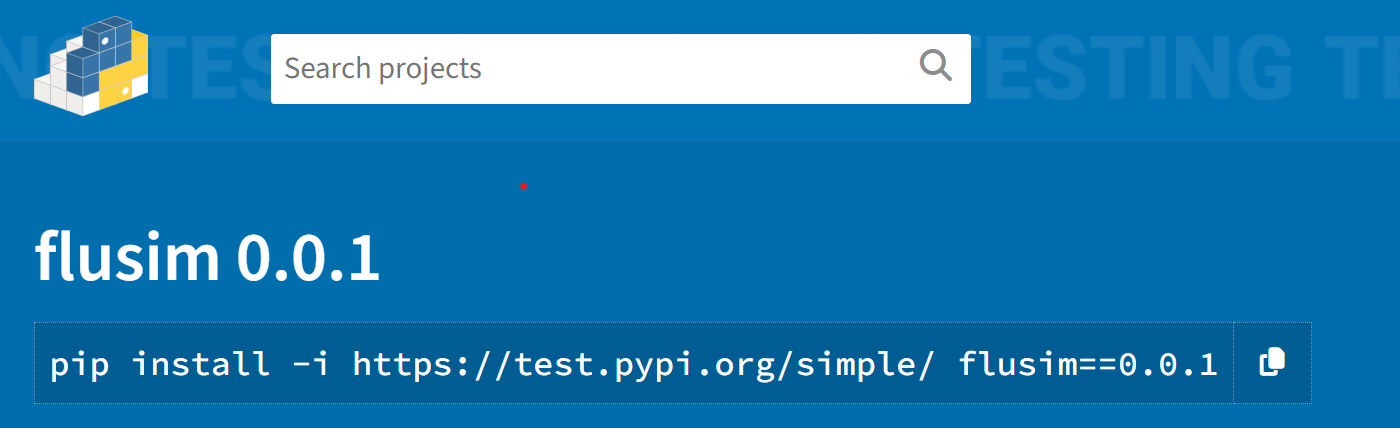
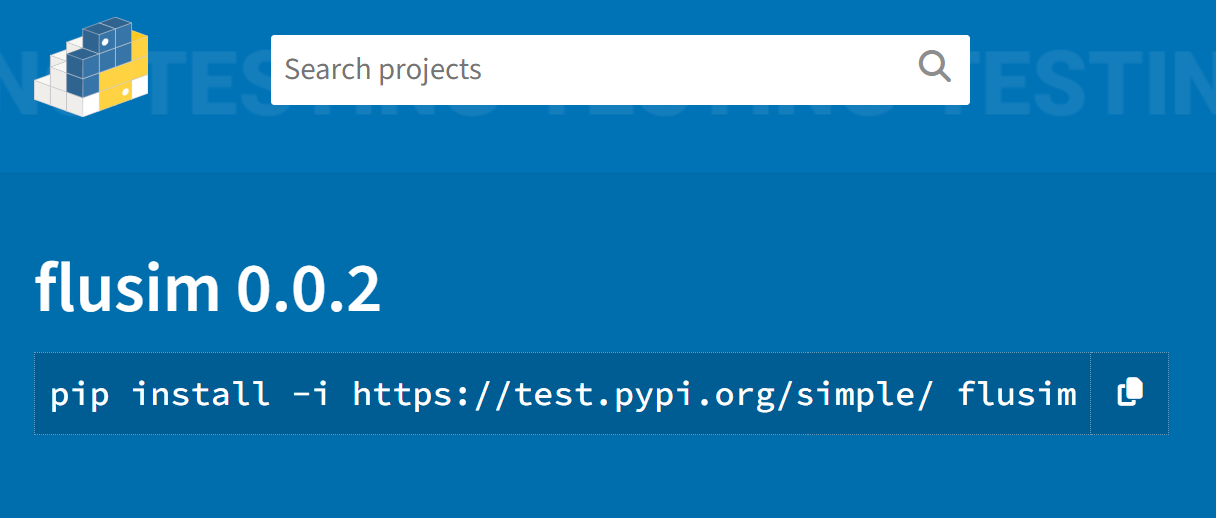
updated package version for projects posts, as well as fixing certificate link

Changed region(s): [[0.0, 0.486, 0.9688, 0.9416], [0.1875, 0.0607, 0.8125, 0.243], [0.0, 0.0304, 0.125, 0.2734]]

diff --git a/public/projects/projects-omsa-01/index.html b/public/projects/projects-omsa-01/index.html
@@ -1,1 +1,1 @@
-<!doctype html><html lang=en><head><meta charset=UTF-8><meta content="IE=edge" http-equiv=X-UA-Compatible><meta content="text/html; charset=UTF-8" http-equiv=content-type><meta content="width=device-width,initial-scale=1,user-scalable=no" name=viewport><meta content="index, follow" name=robots><title>Project: flusim</title><meta content="Project: flusim" name=title><meta content="Samuel Wang" name=author><meta content="A simulation package for a simple flu problem" name=description><meta content=website property=og:type><meta content=https://zebraalgebra-personal-page.netlify.app/projects/projects-omsa-01/ property=og:url><meta property=og:site_name><meta content="Project: flusim" property=og:title><meta content="A simulation package for a simple flu problem" property=og:description><meta content=https://zebraalgebra-personal-page.netlify.app/favicon.png property=og:image><link href=https://zebraalgebra-personal-page.netlify.app/projects/projects-omsa-01/ rel=canonical><link rel="shortcut icon" href=https://zebraalgebra-personal-page.netlify.app/favicon.png type=image/x-icon><link href=https://zebraalgebra-personal-page.netlify.app/css/style.css rel=stylesheet><script src=https://zebraalgebra-personal-page.netlify.app/js/script.js></script><body><div class=wrapper><header><nav class=navBar><a href=https://zebraalgebra-personal-page.netlify.app>/home/</a><a href=https://zebraalgebra-personal-page.netlify.app/about>/about/</a><a href=https://zebraalgebra-personal-page.netlify.app/blog>/blog/</a><a href=https://zebraalgebra-personal-page.netlify.app/contact>/contact/</a><a href=https://zebraalgebra-personal-page.netlify.app/projects>/projects/</a><div class=themeSwitch><button class="themeButton light" onclick="setTheme('light')" title="Light mode"><svg class="icons icons__background"><use href=https://zebraalgebra-personal-page.netlify.app/icons.svg#lightMode></use></svg></button><button class="themeButton dark" onclick="setTheme('dark')" title="Dark mode"><svg class="icons icons__background"><use href=https://zebraalgebra-personal-page.netlify.app/icons.svg#darkMode></use></svg></button></div></nav></header><main><h1>Project: flusim</h1><p><img alt src=../flusim.png><blockquote><p>Link to the <a href=https://github.com/ZebraAlgebra/flusim rel=noopener target=_blank>GitHub Repo</a></blockquote><blockquote><p>Link to the <a href=https://test.pypi.org/project/flusim/0.0.1/ rel=noopener target=_blank>published package</a></blockquote><blockquote><p>Link to a <a href=https://htmlpreview.github.io/?https://github.com/ZebraAlgebra/flusim/blob/main/notebooks/package_demo.html rel=noopener target=_blank>demo Jupyter notebook</a></blockquote><h2 id=overview>Overview</h2><p>This is a school project in the course <a href=https://omscs.gatech.edu/isye-6644-simulation-and-modeling-engineering-and-science rel=noopener target=_blank>ISYE6644 Simulation</a> that I worked on my own.<p>The problem is to simulate, calculate some statistics of a small-scale, simple flu-spread problem.<h2 id=problem-statement>Problem Statement</h2><p>The <strong>flu-spread problem</strong> has the following very simple assumptions:<ol><li>There are <code>n</code> people in a closed system, with no people being sick before day <code>0</code>, and <code>1</code> people sick in day <code>1</code>.<li>Every people once sick, will recover in exactly <code>l</code> days.<li>Each day, every healthy person has a probability <code>p</code> of getting infected by an ill person, and these events are independent.</ol><p>The problem is to determine the expectation and variance of the number of ill people each day, as well as the same statistics for the date of flu end.<h2 id=skills-obtained>Skills Obtained</h2><ol><li>Python: <ul><li>OOP stuffs (Pythonic inheritance, <code>dataclass</code> syntaxes)<li>Package development (package structures, typing, validation, package publishing ecosystem)</ul><li>Math: <ul><li>Basic Markov chain analysis (state space estimates, analysis on the statistics of time till absorption)<li>Output analysis (confidence intervals)</ul></ol><h2 id=things-i-did>Things I did</h2><ol><li>On the mathematical side, I recognized that these statistics can be calculated via an associated Markov chain. <ul><li>In this sense, these statistics can be numerically solved via matrix equations. <ul><li>For the statistics of each day, the number is a linear or quadratic function on the entries of a power of the transition matrix (of the associated Markov chain).<li>For flu-end dates, the expectation and variance satisfies a recurrence relation, derived via a standard first-step analysis.</ul><li>The problem is that since the assocaited Markov chain has a large state space (almost of size <code>n ** d</code>), other simulation methods are needed.</ul><li>On the simulation side, I wrote codes that can simulate the associated Markov chain, and used it to find the approximate statistics, confidence intervals. <ul><li>To simulate and see the status of every person in the system at each day, a more resource-heavy method must be used, so I implemented this functionality as a single period simulation.<li>If the number of people being sick each day is our only focus, a faster method can be used, so I implemented this functionality as a multiple period simulation.</ul><li>On the visualization side, I wrote two simple visualization widget using <a href=https://bokeh.org/ rel=noopener target=_blank>Bokeh</a> to visualize simulation results.<li>Combining all these functionalities, I wrote a Python package and published it on test PyPI.</ol><p class=tagsData></main><footer><hr><div class=footContainer><div class=footLeft><p>Powered by <a rel="noopener noreferrer" href=https://www.getzola.org target=_blank>Zola</a> with <a rel="noopener noreferrer" href=https://github.com/Speyll/anemone target=_blank>anemone</a> theme & <a rel="noopener noreferrer" href=https://github.com/Speyll/veqev target=_blank>veqev</a> colors.<br></div></div></footer></div>
+<!doctype html><html lang=en><head><meta charset=UTF-8><meta content="IE=edge" http-equiv=X-UA-Compatible><meta content="text/html; charset=UTF-8" http-equiv=content-type><meta content="width=device-width,initial-scale=1,user-scalable=no" name=viewport><meta content="index, follow" name=robots><title>Project: flusim</title><meta content="Project: flusim" name=title><meta content="Samuel Wang" name=author><meta content="A simulation package for a simple flu problem" name=description><meta content=website property=og:type><meta content=https://zebraalgebra-personal-page.netlify.app/projects/projects-omsa-01/ property=og:url><meta property=og:site_name><meta content="Project: flusim" property=og:title><meta content="A simulation package for a simple flu problem" property=og:description><meta content=https://zebraalgebra-personal-page.netlify.app/favicon.png property=og:image><link href=https://zebraalgebra-personal-page.netlify.app/projects/projects-omsa-01/ rel=canonical><link rel="shortcut icon" href=https://zebraalgebra-personal-page.netlify.app/favicon.png type=image/x-icon><link href=https://zebraalgebra-personal-page.netlify.app/css/style.css rel=stylesheet><script src=https://zebraalgebra-personal-page.netlify.app/js/script.js></script><body><div class=wrapper><header><nav class=navBar><a href=https://zebraalgebra-personal-page.netlify.app>/home/</a><a href=https://zebraalgebra-personal-page.netlify.app/about>/about/</a><a href=https://zebraalgebra-personal-page.netlify.app/blog>/blog/</a><a href=https://zebraalgebra-personal-page.netlify.app/contact>/contact/</a><a href=https://zebraalgebra-personal-page.netlify.app/projects>/projects/</a><div class=themeSwitch><button class="themeButton light" onclick="setTheme('light')" title="Light mode"><svg class="icons icons__background"><use href=https://zebraalgebra-personal-page.netlify.app/icons.svg#lightMode></use></svg></button><button class="themeButton dark" onclick="setTheme('dark')" title="Dark mode"><svg class="icons icons__background"><use href=https://zebraalgebra-personal-page.netlify.app/icons.svg#darkMode></use></svg></button></div></nav></header><main><h1>Project: flusim</h1><p><img alt src=../flusim.png><blockquote><p>Link to the <a href=https://github.com/ZebraAlgebra/flusim rel=noopener target=_blank>GitHub Repo</a></blockquote><blockquote><p>Link to the <a href=https://test.pypi.org/project/flusim/ rel=noopener target=_blank>published package</a></blockquote><blockquote><p>Link to a <a href=https://htmlpreview.github.io/?https://github.com/ZebraAlgebra/flusim/blob/main/notebooks/package_demo.html rel=noopener target=_blank>demo Jupyter notebook</a></blockquote><h2 id=overview>Overview</h2><p>This is a school project in the course <a href=https://omscs.gatech.edu/isye-6644-simulation-and-modeling-engineering-and-science rel=noopener target=_blank>ISYE6644 Simulation</a> that I worked on my own.<p>The problem is to simulate, calculate some statistics of a small-scale, simple flu-spread problem.<h2 id=problem-statement>Problem Statement</h2><p>The <strong>flu-spread problem</strong> has the following very simple assumptions:<ol><li>There are <code>n</code> people in a closed system, with no people being sick before day <code>0</code>, and <code>1</code> people sick in day <code>1</code>.<li>Every people once sick, will recover in exactly <code>l</code> days.<li>Each day, every healthy person has a probability <code>p</code> of getting infected by an ill person, and these events are independent.</ol><p>The problem is to determine the expectation and variance of the number of ill people each day, as well as the same statistics for the date of flu end.<h2 id=skills-obtained>Skills Obtained</h2><ol><li>Python: <ul><li>OOP stuffs (Pythonic inheritance, <code>dataclass</code> syntaxes)<li>Package development (package structures, typing, validation, package publishing ecosystem)</ul><li>Math: <ul><li>Basic Markov chain analysis (state space estimates, analysis on the statistics of time till absorption)<li>Output analysis (confidence intervals)</ul></ol><h2 id=things-i-did>Things I did</h2><ol><li>On the mathematical side, I recognized that these statistics can be calculated via an associated Markov chain. <ul><li>In this sense, these statistics can be numerically solved via matrix equations. <ul><li>For the statistics of each day, the number is a linear or quadratic function on the entries of a power of the transition matrix (of the associated Markov chain).<li>For flu-end dates, the expectation and variance satisfies a recurrence relation, derived via a standard first-step analysis.</ul><li>The problem is that since the assocaited Markov chain has a large state space (almost of size <code>n ** d</code>), other simulation methods are needed.</ul><li>On the simulation side, I wrote codes that can simulate the associated Markov chain, and used it to find the approximate statistics, confidence intervals. <ul><li>To simulate and see the status of every person in the system at each day, a more resource-heavy method must be used, so I implemented this functionality as a single period simulation.<li>If the number of people being sick each day is our only focus, a faster method can be used, so I implemented this functionality as a multiple period simulation.</ul><li>On the visualization side, I wrote two simple visualization widget using <a href=https://bokeh.org/ rel=noopener target=_blank>Bokeh</a> to visualize simulation results.<li>Combining all these functionalities, I wrote a Python package and published it on test PyPI.</ol><p class=tagsData></main><footer><hr><div class=footContainer><div class=footLeft><p>Powered by <a rel="noopener noreferrer" href=https://www.getzola.org target=_blank>Zola</a> with <a rel="noopener noreferrer" href=https://github.com/Speyll/anemone target=_blank>anemone</a> theme & <a rel="noopener noreferrer" href=https://github.com/Speyll/veqev target=_blank>veqev</a> colors.<br></div></div></footer></div>

diff --git a/public/blog/03-003/index.html b/public/blog/03-003/index.html
@@ -1,4 +1,4 @@
-<!doctype html><html lang=en><head><meta charset=UTF-8><meta content="IE=edge" http-equiv=X-UA-Compatible><meta content="text/html; charset=UTF-8" http-equiv=content-type><meta content="width=device-width,initial-scale=1,user-scalable=no" name=viewport><meta content="index, follow" name=robots><title>Packaging and Publishing Python Projects <🐍 Python></title><meta content="Packaging and Publishing Python Projects <🐍 Python>" name=title><meta content="Samuel Wang" name=author><meta content="Post on Python's Packaging" name=description><meta content=website property=og:type><meta content=https://zebraalgebra-personal-page.netlify.app/blog/03-003/ property=og:url><meta property=og:site_name><meta content="Packaging and Publishing Python Projects <🐍 Python>" property=og:title><meta content="Post on Python's Packaging" property=og:description><meta content=https://zebraalgebra-personal-page.netlify.app/favicon.png property=og:image><link href=https://zebraalgebra-personal-page.netlify.app/blog/03-003/ rel=canonical><link rel="shortcut icon" href=https://zebraalgebra-personal-page.netlify.app/favicon.png type=image/x-icon><link href=https://zebraalgebra-personal-page.netlify.app/css/style.css rel=stylesheet><script src=https://zebraalgebra-personal-page.netlify.app/js/script.js></script><body><div class=wrapper><header><nav class=navBar><a href=https://zebraalgebra-personal-page.netlify.app>/home/</a><a href=https://zebraalgebra-personal-page.netlify.app/about>/about/</a><a href=https://zebraalgebra-personal-page.netlify.app/blog>/blog/</a><a href=https://zebraalgebra-personal-page.netlify.app/contact>/contact/</a><a href=https://zebraalgebra-personal-page.netlify.app/projects>/projects/</a><div class=themeSwitch><button class="themeButton light" onclick="setTheme('light')" title="Light mode"><svg class="icons icons__background"><use href=https://zebraalgebra-personal-page.netlify.app/icons.svg#lightMode></use></svg></button><button class="themeButton dark" onclick="setTheme('dark')" title="Dark mode"><svg class="icons icons__background"><use href=https://zebraalgebra-personal-page.netlify.app/icons.svg#darkMode></use></svg></button></div></nav></header><main><h1>Packaging and Publishing Python Projects <🐍 Python></h1><p>In this post, I will be writing about the steps of publishing a package, as well as what resources helped me the most.<blockquote><p>Disclaimer: Since my package is a relatively simple and small one, this tutorial does not present the best practices on the process of packaging, publishing a project, but rather, a basic way of doing so.</blockquote><h2 id=background>Background</h2><p>I recently worked on a school project in the course <a href=https://omscs.gatech.edu/isye-6644-simulation-and-modeling-engineering-and-science rel=noopener target=_blank>ISYE6644 Simulation</a> and wrote some Python code for it.<p>Throughout the process I was thinking: well, maybe if I can build, publish this as a Python package, and that people can run <code>pip install</code> to install it, wouldn’t that be pretty fun?<p>After going through some tutorials and going through some documentations (which is not an entirely trivial process), I finally published the <a href=https://test.pypi.org/project/flusim/0.0.1/ rel=noopener target=_blank>package</a> on <a href=https://test.pypi.org/ rel=noopener target=_blank>testpypi</a>.<p><img alt src=../flusim.png><p>The amazing tutorial that helped me the most is the <a href="https://www.youtube.com/watch?v=5KEObONUkik&t=936s&pp=ygUZYXJqYW5jb2RlcyBweXRob24gcGFja2FnZQ%3D%3D" rel=noopener target=_blank>Youtube video by ArjanCodes</a>, and I highly recommend checking it out.<h2 id=overview-of-the-process>Overview of the Process</h2><p>The process of building a project is roughly as follows:<ol><li>You need to have the source codes, and a <code>setup.py</code> file ready.<li>Run <code>setuptools</code> on <code>setup.py</code> to build a distribution file.<li>Check the generated distribution files using <code>twine</code>.<li>Upload the package to <code>pypi</code> or <code>testpypi</code> - also using <code>twine</code>.</ol><p>Pretty straightforward, isn’t it?<h2 id=the-syntaxes>The Syntaxes</h2><p>You can check out my project directory structure at my <a href=https://github.com/ZebraAlgebra/flusim rel=noopener target=_blank>Github repo</a>.<blockquote><p>In order for these commands in the following sections to work, you will first need to <code>pip install</code> the packages <code>twine, wheel, setuptools</code>.</blockquote><h3 id=setup-and-build>Setup and Build</h3><p>My <code>setup.py</code> file is configured as follows:<pre class=language-python data-lang=python style=background:#282828;color:#fdf4c1aa><code class=language-python data-lang=python><span style=color:#fa5c4b>from </span><span>setuptools </span><span style=color:#fa5c4b>import </span><span>setup, find_packages
+<!doctype html><html lang=en><head><meta charset=UTF-8><meta content="IE=edge" http-equiv=X-UA-Compatible><meta content="text/html; charset=UTF-8" http-equiv=content-type><meta content="width=device-width,initial-scale=1,user-scalable=no" name=viewport><meta content="index, follow" name=robots><title>Packaging and Publishing Python Projects <🐍 Python></title><meta content="Packaging and Publishing Python Projects <🐍 Python>" name=title><meta content="Samuel Wang" name=author><meta content="Post on Python's Packaging" name=description><meta content=website property=og:type><meta content=https://zebraalgebra-personal-page.netlify.app/blog/03-003/ property=og:url><meta property=og:site_name><meta content="Packaging and Publishing Python Projects <🐍 Python>" property=og:title><meta content="Post on Python's Packaging" property=og:description><meta content=https://zebraalgebra-personal-page.netlify.app/favicon.png property=og:image><link href=https://zebraalgebra-personal-page.netlify.app/blog/03-003/ rel=canonical><link rel="shortcut icon" href=https://zebraalgebra-personal-page.netlify.app/favicon.png type=image/x-icon><link href=https://zebraalgebra-personal-page.netlify.app/css/style.css rel=stylesheet><script src=https://zebraalgebra-personal-page.netlify.app/js/script.js></script><body><div class=wrapper><header><nav class=navBar><a href=https://zebraalgebra-personal-page.netlify.app>/home/</a><a href=https://zebraalgebra-personal-page.netlify.app/about>/about/</a><a href=https://zebraalgebra-personal-page.netlify.app/blog>/blog/</a><a href=https://zebraalgebra-personal-page.netlify.app/contact>/contact/</a><a href=https://zebraalgebra-personal-page.netlify.app/projects>/projects/</a><div class=themeSwitch><button class="themeButton light" onclick="setTheme('light')" title="Light mode"><svg class="icons icons__background"><use href=https://zebraalgebra-personal-page.netlify.app/icons.svg#lightMode></use></svg></button><button class="themeButton dark" onclick="setTheme('dark')" title="Dark mode"><svg class="icons icons__background"><use href=https://zebraalgebra-personal-page.netlify.app/icons.svg#darkMode></use></svg></button></div></nav></header><main><h1>Packaging and Publishing Python Projects <🐍 Python></h1><p>In this post, I will be writing about the steps of publishing a package, as well as what resources helped me the most.<blockquote><p>Disclaimer: Since my package is a relatively simple and small one, this tutorial does not present the best practices on the process of packaging, publishing a project, but rather, a basic way of doing so.</blockquote><h2 id=background>Background</h2><p>I recently worked on a school project in the course <a href=https://omscs.gatech.edu/isye-6644-simulation-and-modeling-engineering-and-science rel=noopener target=_blank>ISYE6644 Simulation</a> and wrote some Python code for it.<p>Throughout the process I was thinking: well, maybe if I can build, publish this as a Python package, and that people can run <code>pip install</code> to install it, wouldn’t that be pretty fun?<p>After going through some tutorials and going through some documentations (which is not an entirely trivial process), I finally published the <a href=https://test.pypi.org/project/flusim/ rel=noopener target=_blank>package</a> on <a href=https://test.pypi.org/ rel=noopener target=_blank>testpypi</a>.<p><img alt src=../flusim.png><p>The amazing tutorial that helped me the most is the <a href="https://www.youtube.com/watch?v=5KEObONUkik&t=936s&pp=ygUZYXJqYW5jb2RlcyBweXRob24gcGFja2FnZQ%3D%3D" rel=noopener target=_blank>Youtube video by ArjanCodes</a>, and I highly recommend checking it out.<h2 id=overview-of-the-process>Overview of the Process</h2><p>The process of building a project is roughly as follows:<ol><li>You need to have the source codes, and a <code>setup.py</code> file ready.<li>Run <code>setuptools</code> on <code>setup.py</code> to build a distribution file.<li>Check the generated distribution files using <code>twine</code>.<li>Upload the package to <code>pypi</code> or <code>testpypi</code> - also using <code>twine</code>.</ol><p>Pretty straightforward, isn’t it?<h2 id=the-syntaxes>The Syntaxes</h2><p>You can check out my project directory structure at my <a href=https://github.com/ZebraAlgebra/flusim rel=noopener target=_blank>Github repo</a>.<blockquote><p>In order for these commands in the following sections to work, you will first need to <code>pip install</code> the packages <code>twine, wheel, setuptools</code>.</blockquote><h3 id=setup-and-build>Setup and Build</h3><p>My <code>setup.py</code> file is configured as follows:<pre class=language-python data-lang=python style=background:#282828;color:#fdf4c1aa><code class=language-python data-lang=python><span style=color:#fa5c4b>from </span><span>setuptools </span><span style=color:#fa5c4b>import </span><span>setup, find_packages
 </span><span>
 </span><span style=color:#fa5c4b>with </span><span style=color:#fabd2f>open</span><span style=color:#fdf4c1>(</span><span style=color:#b8bb26>"app/README.md"</span><span style=color:#fdf4c1>, </span><span style=color:#b8bb26>"r"</span><span style=color:#fdf4c1>) </span><span style=color:#fa5c4b>as </span><span>f:
 </span><span>    long_description </span><span style=color:#fe8019>= </span><span style=color:#fdf4c1>f.read()

diff --git a/public/about/1/index.html b/public/about/1/index.html
@@ -1,1 +1,1 @@
-<!doctype html><html lang=en><head><meta charset=UTF-8><meta content="IE=edge" http-equiv=X-UA-Compatible><meta content="text/html; charset=UTF-8" http-equiv=content-type><meta content="width=device-width,initial-scale=1,user-scalable=no" name=viewport><meta content="index, follow" name=robots><title>CV</title><meta content=CV name=title><meta content="Samuel Wang" name=author><meta content=CV name=description><meta content=website property=og:type><meta content=https://zebraalgebra-personal-page.netlify.app/about/1/ property=og:url><meta property=og:site_name><meta content=CV property=og:title><meta content=CV property=og:description><meta content=https://zebraalgebra-personal-page.netlify.app/favicon.png property=og:image><link href=https://zebraalgebra-personal-page.netlify.app/about/1/ rel=canonical><link rel="shortcut icon" href=https://zebraalgebra-personal-page.netlify.app/favicon.png type=image/x-icon><link href=https://zebraalgebra-personal-page.netlify.app/css/style.css rel=stylesheet><script src=https://zebraalgebra-personal-page.netlify.app/js/script.js></script><body><div class=wrapper><header><nav class=navBar><a href=https://zebraalgebra-personal-page.netlify.app>/home/</a><a href=https://zebraalgebra-personal-page.netlify.app/about>/about/</a><a href=https://zebraalgebra-personal-page.netlify.app/blog>/blog/</a><a href=https://zebraalgebra-personal-page.netlify.app/contact>/contact/</a><a href=https://zebraalgebra-personal-page.netlify.app/projects>/projects/</a><div class=themeSwitch><button class="themeButton light" onclick="setTheme('light')" title="Light mode"><svg class="icons icons__background"><use href=https://zebraalgebra-personal-page.netlify.app/icons.svg#lightMode></use></svg></button><button class="themeButton dark" onclick="setTheme('dark')" title="Dark mode"><svg class="icons icons__background"><use href=https://zebraalgebra-personal-page.netlify.app/icons.svg#darkMode></use></svg></button></div></nav></header><main><h1>CV</h1><h2 id=education>Education</h2><h3 id=school-degree-programs>🏫 Degree Programs</h3><ul><li><p><code>MS in Analytics</code> <strong>2023 Aug. - 2025. Feb (exp.)</strong> @<em>Georgia Inst. of Tech.</em></p><li><p><code>MS in Math</code> <strong>2022 Feb. - 2023 Jun.</strong> @<em>Natn’l Taiwan Univ.</em></p> <blockquote><p>Thesis: <em>A Motivic Blowup Formula of Moduli Spaces of Rank 2 Sheaves on a Smooth Projective Algebraic Surface</em>.</blockquote> <blockquote><p>Link to my <a href=https://doi.org/10.6342/NTU202301040 rel=noopener target=_blank>thesis</a>.</blockquote> <blockquote><p>Advisor: <a href=http://www.math.ntu.edu.tw/entity_people/entity_people/21516 rel=noopener target=_blank>Prof. Wu-Yen Chuang</a>.</blockquote><li><p><code>BS in Math</code> <strong>2016 Sep. - 2020 Jun.</strong> @<em>Natn’l Taiwan Univ.</em></p></ul><h3 id=globe-with-meridians-online-courses>🌐 Online Courses</h3><ul><li><code>CS50's Intro. to AI with Python</code> <strong>2023 Spring</strong> @<em>Harvard Online Course</em>. <blockquote><p>Link to my <a href="https://certificates.cs50.io/da3cca83-2a71-4452-8aa2-c8ca7df9f11c.png?size=letter" rel=noopener target=_blank>certificate</a>.</blockquote><li><code>Algorithm Specialization</code> <strong>2023 Winter</strong> @<em>Stanford Online</em>. <blockquote><p>Link to my <a href=https://www.coursera.org/account/accomplishments/specialization/certificate/BHQVPXG5K35U rel=noopener target=_blank>certificate</a>.</blockquote></ul><p class=tagsData></main><footer><hr><div class=footContainer><div class=footLeft><p>Powered by <a rel="noopener noreferrer" href=https://www.getzola.org target=_blank>Zola</a> with <a rel="noopener noreferrer" href=https://github.com/Speyll/anemone target=_blank>anemone</a> theme & <a rel="noopener noreferrer" href=https://github.com/Speyll/veqev target=_blank>veqev</a> colors.<br></div></div></footer></div>
+<!doctype html><html lang=en><head><meta charset=UTF-8><meta content="IE=edge" http-equiv=X-UA-Compatible><meta content="text/html; charset=UTF-8" http-equiv=content-type><meta content="width=device-width,initial-scale=1,user-scalable=no" name=viewport><meta content="index, follow" name=robots><title>CV</title><meta content=CV name=title><meta content="Samuel Wang" name=author><meta content=CV name=description><meta content=website property=og:type><meta content=https://zebraalgebra-personal-page.netlify.app/about/1/ property=og:url><meta property=og:site_name><meta content=CV property=og:title><meta content=CV property=og:description><meta content=https://zebraalgebra-personal-page.netlify.app/favicon.png property=og:image><link href=https://zebraalgebra-personal-page.netlify.app/about/1/ rel=canonical><link rel="shortcut icon" href=https://zebraalgebra-personal-page.netlify.app/favicon.png type=image/x-icon><link href=https://zebraalgebra-personal-page.netlify.app/css/style.css rel=stylesheet><script src=https://zebraalgebra-personal-page.netlify.app/js/script.js></script><body><div class=wrapper><header><nav class=navBar><a href=https://zebraalgebra-personal-page.netlify.app>/home/</a><a href=https://zebraalgebra-personal-page.netlify.app/about>/about/</a><a href=https://zebraalgebra-personal-page.netlify.app/blog>/blog/</a><a href=https://zebraalgebra-personal-page.netlify.app/contact>/contact/</a><a href=https://zebraalgebra-personal-page.netlify.app/projects>/projects/</a><div class=themeSwitch><button class="themeButton light" onclick="setTheme('light')" title="Light mode"><svg class="icons icons__background"><use href=https://zebraalgebra-personal-page.netlify.app/icons.svg#lightMode></use></svg></button><button class="themeButton dark" onclick="setTheme('dark')" title="Dark mode"><svg class="icons icons__background"><use href=https://zebraalgebra-personal-page.netlify.app/icons.svg#darkMode></use></svg></button></div></nav></header><main><h1>CV</h1><h2 id=education>Education</h2><h3 id=school-degree-programs>🏫 Degree Programs</h3><ul><li><p><code>MS in Analytics</code> <strong>2023 Aug. - 2025. Feb (exp.)</strong> @<em>Georgia Inst. of Tech.</em></p><li><p><code>MS in Math</code> <strong>2022 Feb. - 2023 Jun.</strong> @<em>Natn’l Taiwan Univ.</em></p> <blockquote><p>Thesis: <em>A Motivic Blowup Formula of Moduli Spaces of Rank 2 Sheaves on a Smooth Projective Algebraic Surface</em>.</blockquote> <blockquote><p>Link to my <a href=https://doi.org/10.6342/NTU202301040 rel=noopener target=_blank>thesis</a>.</blockquote> <blockquote><p>Advisor: <a href=http://www.math.ntu.edu.tw/entity_people/entity_people/21516 rel=noopener target=_blank>Prof. Wu-Yen Chuang</a>.</blockquote><li><p><code>BS in Math</code> <strong>2016 Sep. - 2020 Jun.</strong> @<em>Natn’l Taiwan Univ.</em></p></ul><h3 id=globe-with-meridians-online-courses>🌐 Online Courses</h3><ul><li><code>CS50's Intro. to AI with Python</code> <strong>2023 Spring</strong> @<em>Harvard Online Course</em>. <blockquote><p>Link to my <a href="https://certificates.cs50.io/da3cca83-2a71-4452-8aa2-c8ca7df9f11c.png?size=letter" rel=noopener target=_blank>certificate</a>.</blockquote><li><code>Algorithm Specialization</code> <strong>2023 Winter</strong> @<em>Stanford Online</em>. <blockquote><p>Link to my <a href=https://www.coursera.org/account/accomplishments/specialization/BHQVPXG5K35U rel=noopener target=_blank>certificate</a>.</blockquote></ul><p class=tagsData></main><footer><hr><div class=footContainer><div class=footLeft><p>Powered by <a rel="noopener noreferrer" href=https://www.getzola.org target=_blank>Zola</a> with <a rel="noopener noreferrer" href=https://github.com/Speyll/anemone target=_blank>anemone</a> theme & <a rel="noopener noreferrer" href=https://github.com/Speyll/veqev target=_blank>veqev</a> colors.<br></div></div></footer></div>

diff --git a/public/index.html b/public/index.html
@@ -1,1 +1,1 @@
-<!doctype html><html lang=en><head><meta charset=UTF-8><meta content="IE=edge" http-equiv=X-UA-Compatible><meta content="text/html; charset=UTF-8" http-equiv=content-type><meta content="width=device-width,initial-scale=1,user-scalable=no" name=viewport><meta content="index, follow" name=robots><title>Landing Page</title><meta content="Landing Page" name=title><meta content="Samuel Wang" name=author><meta content="Landing Page" name=description><meta content=website property=og:type><meta content=https://zebraalgebra-personal-page.netlify.app/ property=og:url><meta property=og:site_name><meta content="Landing Page" property=og:title><meta content="Landing Page" property=og:description><meta content=https://zebraalgebra-personal-page.netlify.app/favicon.png property=og:image><link href=https://zebraalgebra-personal-page.netlify.app/ rel=canonical><link rel="shortcut icon" href=https://zebraalgebra-personal-page.netlify.app/favicon.png type=image/x-icon><link href=https://zebraalgebra-personal-page.netlify.app/css/style.css rel=stylesheet><script src=https://zebraalgebra-personal-page.netlify.app/js/script.js></script><body><div class=wrapper><header><nav class=navBar><a href=https://zebraalgebra-personal-page.netlify.app>/home/</a><a href=https://zebraalgebra-personal-page.netlify.app/about>/about/</a><a href=https://zebraalgebra-personal-page.netlify.app/blog>/blog/</a><a href=https://zebraalgebra-personal-page.netlify.app/contact>/contact/</a><a href=https://zebraalgebra-personal-page.netlify.app/projects>/projects/</a><div class=themeSwitch><button class="themeButton light" onclick="setTheme('light')" title="Light mode"><svg class="icons icons__background"><use href=https://zebraalgebra-personal-page.netlify.app/icons.svg#lightMode></use></svg></button><button class="themeButton dark" onclick="setTheme('dark')" title="Dark mode"><svg class="icons icons__background"><use href=https://zebraalgebra-personal-page.netlify.app/icons.svg#darkMode></use></svg></button></div></nav></header><main><h1 id=greetings-right-facing-fist-left-facing-fist>Greetings! 🤜🤛</h1><p>My name is Samuel Wang, currently a student in <a href=https://pe.gatech.edu/degrees/analytics rel=noopener target=_blank>Georgia Tech’s OMSA</a> program, and an aspiring data analyst.<p>Feel free to look around my page and <a href=https://zebraalgebra-personal-page.netlify.app/./contact/>reach out to me</a>.<p><img alt src=https://zebraalgebra-personal-page.netlify.app/./profile_pic.jpg><p>(Photo taken at <em>Wang-You-Gu, Yilan, Taiwan</em>)<ul class=titleList></ul></main><footer><hr><div class=footContainer><div class=footLeft><p>Powered by <a rel="noopener noreferrer" href=https://www.getzola.org target=_blank>Zola</a> with <a rel="noopener noreferrer" href=https://github.com/Speyll/anemone target=_blank>anemone</a> theme & <a rel="noopener noreferrer" href=https://github.com/Speyll/veqev target=_blank>veqev</a> colors.<br></div></div></footer></div>
+<!doctype html><html lang=en><head><meta charset=UTF-8><meta content="IE=edge" http-equiv=X-UA-Compatible><meta content="text/html; charset=UTF-8" http-equiv=content-type><meta content="width=device-width,initial-scale=1,user-scalable=no" name=viewport><meta content="index, follow" name=robots><title>Landing Page</title><meta content="Landing Page" name=title><meta content="Samuel Wang" name=author><meta content="Landing Page" name=description><meta content=website property=og:type><meta content=https://zebraalgebra-personal-page.netlify.app/ property=og:url><meta property=og:site_name><meta content="Landing Page" property=og:title><meta content="Landing Page" property=og:description><meta content=https://zebraalgebra-personal-page.netlify.app/favicon.png property=og:image><link href=https://zebraalgebra-personal-page.netlify.app/ rel=canonical><link rel="shortcut icon" href=https://zebraalgebra-personal-page.netlify.app/favicon.png type=image/x-icon><link href=https://zebraalgebra-personal-page.netlify.app/css/style.css rel=stylesheet><script src=https://zebraalgebra-personal-page.netlify.app/js/script.js></script><body><div class=wrapper><header><nav class=navBar><a href=https://zebraalgebra-personal-page.netlify.app>/home/</a><a href=https://zebraalgebra-personal-page.netlify.app/about>/about/</a><a href=https://zebraalgebra-personal-page.netlify.app/blog>/blog/</a><a href=https://zebraalgebra-personal-page.netlify.app/contact>/contact/</a><a href=https://zebraalgebra-personal-page.netlify.app/projects>/projects/</a><div class=themeSwitch><button class="themeButton light" onclick="setTheme('light')" title="Light mode"><svg class="icons icons__background"><use href=https://zebraalgebra-personal-page.netlify.app/icons.svg#lightMode></use></svg></button><button class="themeButton dark" onclick="setTheme('dark')" title="Dark mode"><svg class="icons icons__background"><use href=https://zebraalgebra-personal-page.netlify.app/icons.svg#darkMode></use></svg></button></div></nav></header><main><h1 id=greetings-right-facing-fist-left-facing-fist>Greetings! 🤜🤛</h1><p>My name is Samuel Wang, currently a student in <a href=https://pe.gatech.edu/degrees/analytics rel=noopener target=_blank>Georgia Tech’s OMSA</a> program, and an aspiring data analyst.<p>Feel free to look around my page and <a href=https://zebraalgebra-personal-page.netlify.app/./contact/>reach out to me</a>.<p><img alt src=https://zebraalgebra-personal-page.netlify.app/./profile_pic.jpg><p>(Photo taken at <em>Wang-You-Gu, Yilan, Taiwan</em>)<p><code>Website Last Updated: 2023/12/04 17:00 EST</code><ul class=titleList></ul></main><footer><hr><div class=footContainer><div class=footLeft><p>Powered by <a rel="noopener noreferrer" href=https://www.getzola.org target=_blank>Zola</a> with <a rel="noopener noreferrer" href=https://github.com/Speyll/anemone target=_blank>anemone</a> theme & <a rel="noopener noreferrer" href=https://github.com/Speyll/veqev target=_blank>veqev</a> colors.<br></div></div></footer></div>

diff --git a/content/blog/03-003-packaging.md b/content/blog/03-003-packaging.md
@@ -16,7 +16,7 @@ I recently worked on a school project in the course [ISYE6644 Simulation](https:
 
 Throughout the process I was thinking: well, maybe if I can build, publish this as a Python package, and that people can run `pip install` to install it, wouldn't that be pretty fun?
 
-After going through some tutorials and going through some documentations (which is not an entirely trivial process), I finally published the [package](https://test.pypi.org/project/flusim/0.0.1/) on [testpypi](https://test.pypi.org/).
+After going through some tutorials and going through some documentations (which is not an entirely trivial process), I finally published the [package](https://test.pypi.org/project/flusim/) on [testpypi](https://test.pypi.org/).
 
 ![](../flusim.png)
 

diff --git a/content/about/cv.md b/content/about/cv.md
@@ -26,4 +26,4 @@ date = "2023-11-02"
 - `CS50's Intro. to AI with Python` **2023 Spring** @_Harvard Online Course_.
   > Link to my [certificate](https://certificates.cs50.io/da3cca83-2a71-4452-8aa2-c8ca7df9f11c.png?size=letter).
 - `Algorithm Specialization` **2023 Winter** @_Stanford Online_.
-  > Link to my [certificate](https://www.coursera.org/account/accomplishments/specialization/certificate/BHQVPXG5K35U).
+  > Link to my [certificate](https://www.coursera.org/account/accomplishments/specialization/BHQVPXG5K35U).

diff --git a/content/projects/omsa-01.md b/content/projects/omsa-01.md
@@ -9,7 +9,7 @@ date = 2023-12-03
 
 > Link to the [GitHub Repo](https://github.com/ZebraAlgebra/flusim)
 
-> Link to the [published package](https://test.pypi.org/project/flusim/0.0.1/)
+> Link to the [published package](https://test.pypi.org/project/flusim/)
 
 > Link to a [demo Jupyter notebook](https://htmlpreview.github.io/?https://github.com/ZebraAlgebra/flusim/blob/main/notebooks/package_demo.html)
 

diff --git a/content/_index.md b/content/_index.md
@@ -14,3 +14,5 @@ Feel free to look around my page and [reach out to me](./contact/).
 ![](./profile_pic.jpg)
 
 (Photo taken at _Wang-You-Gu, Yilan, Taiwan_)
+
+`Website Last Updated: 2023/12/04 17:00 EST`
